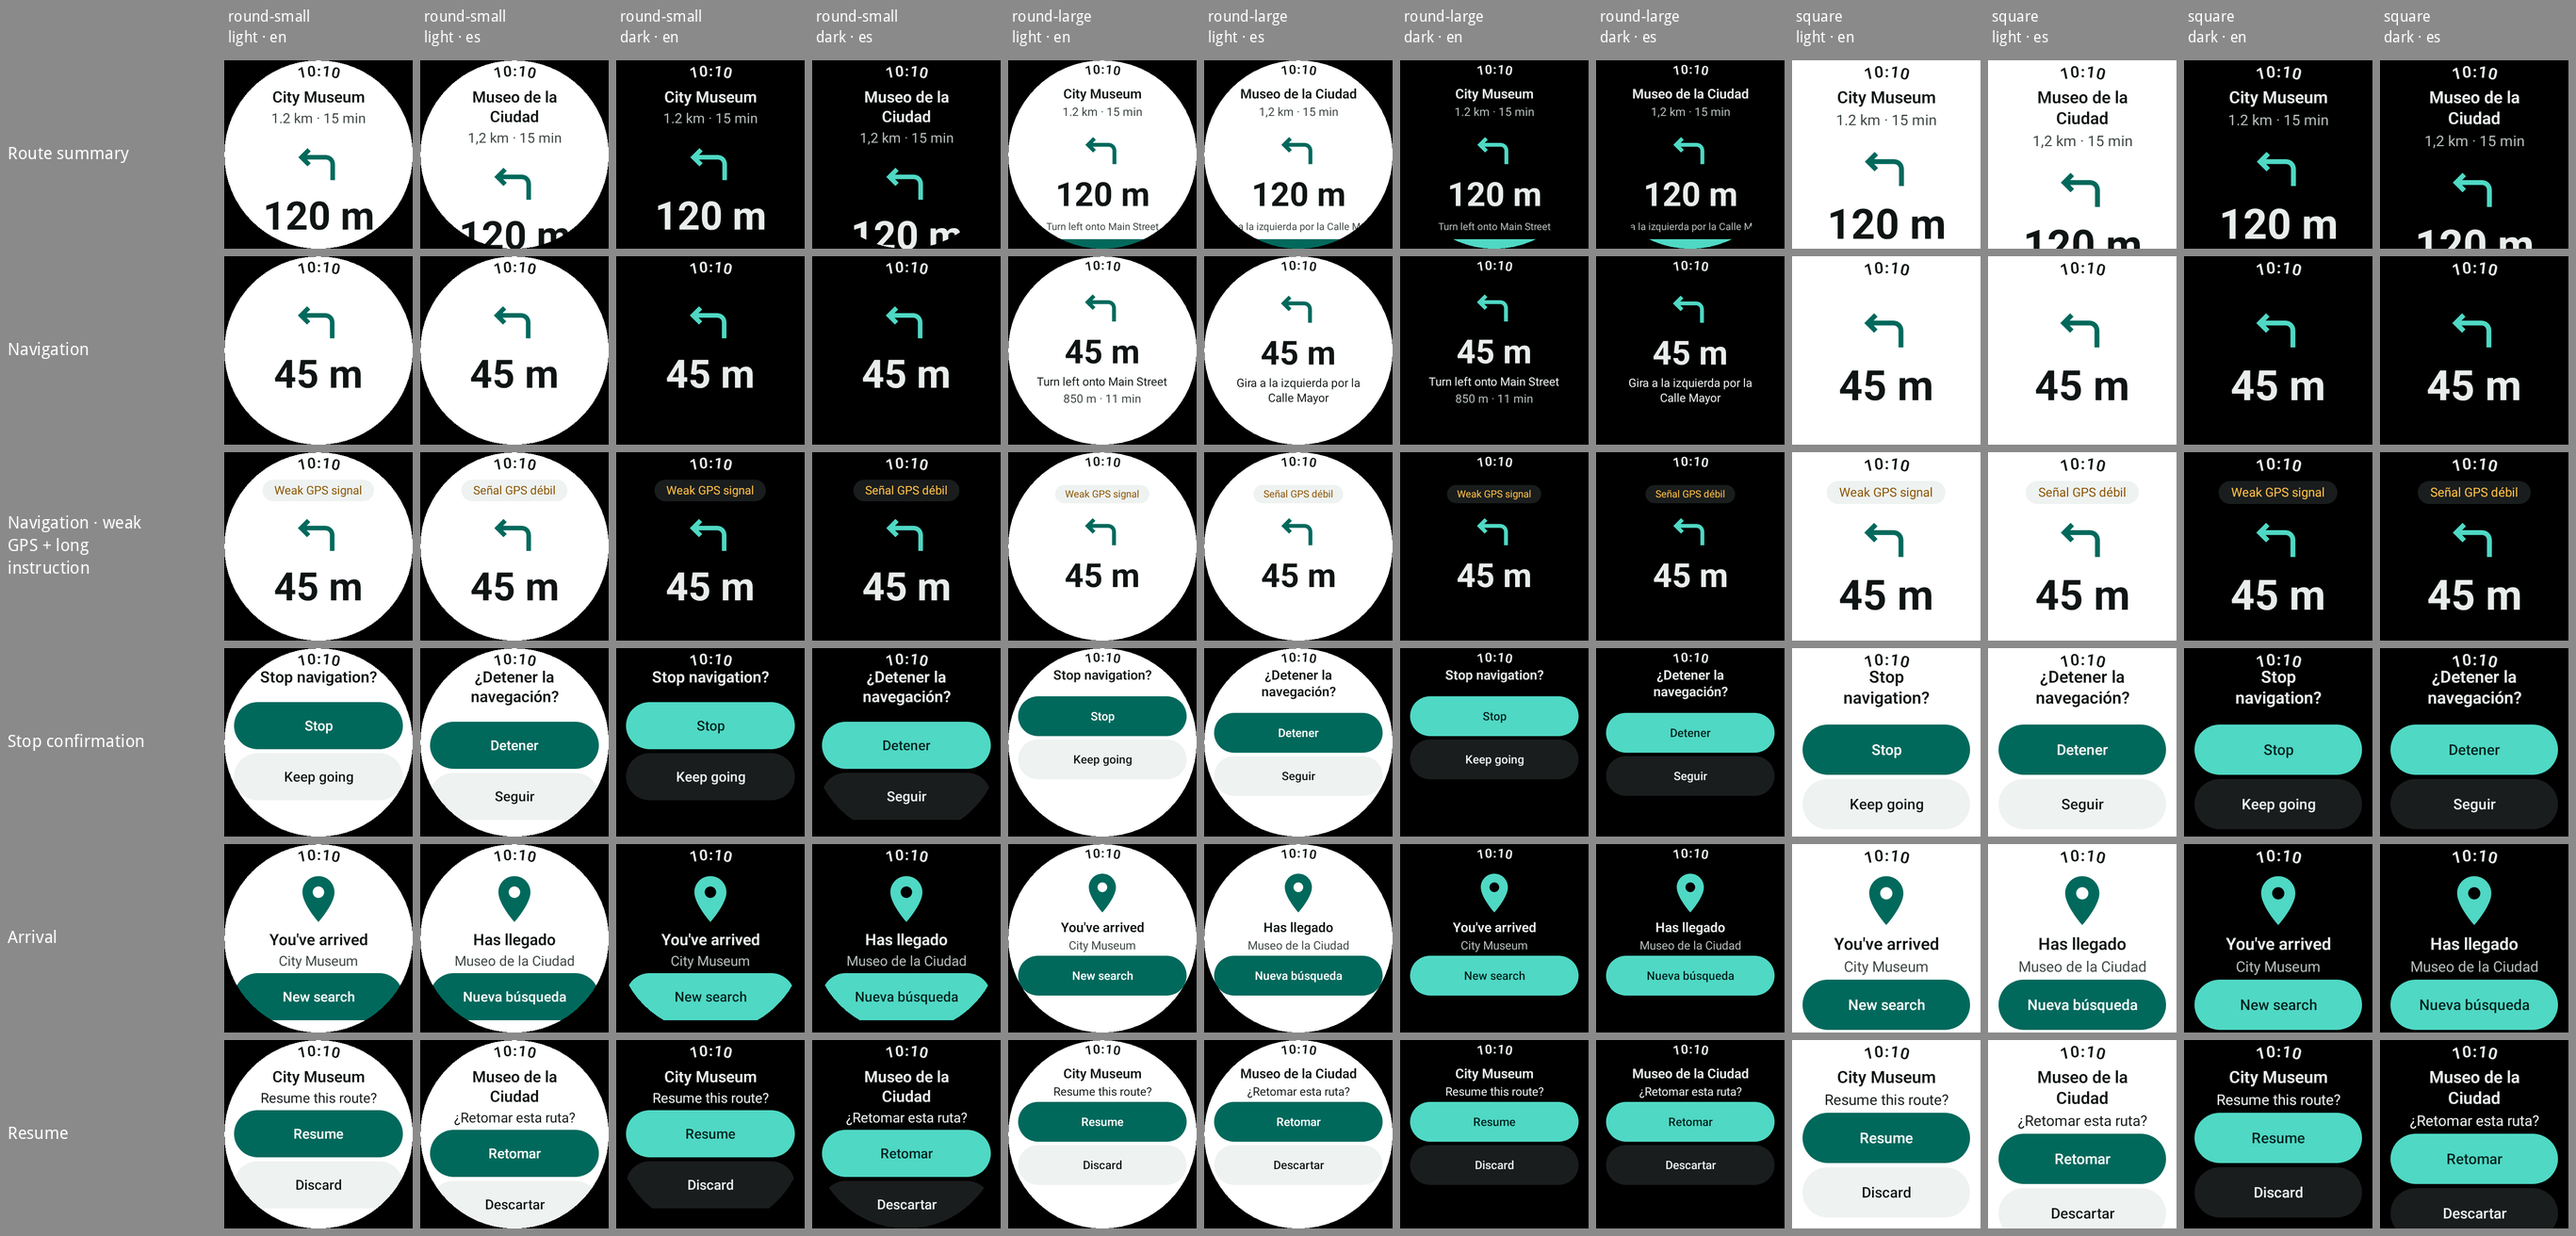
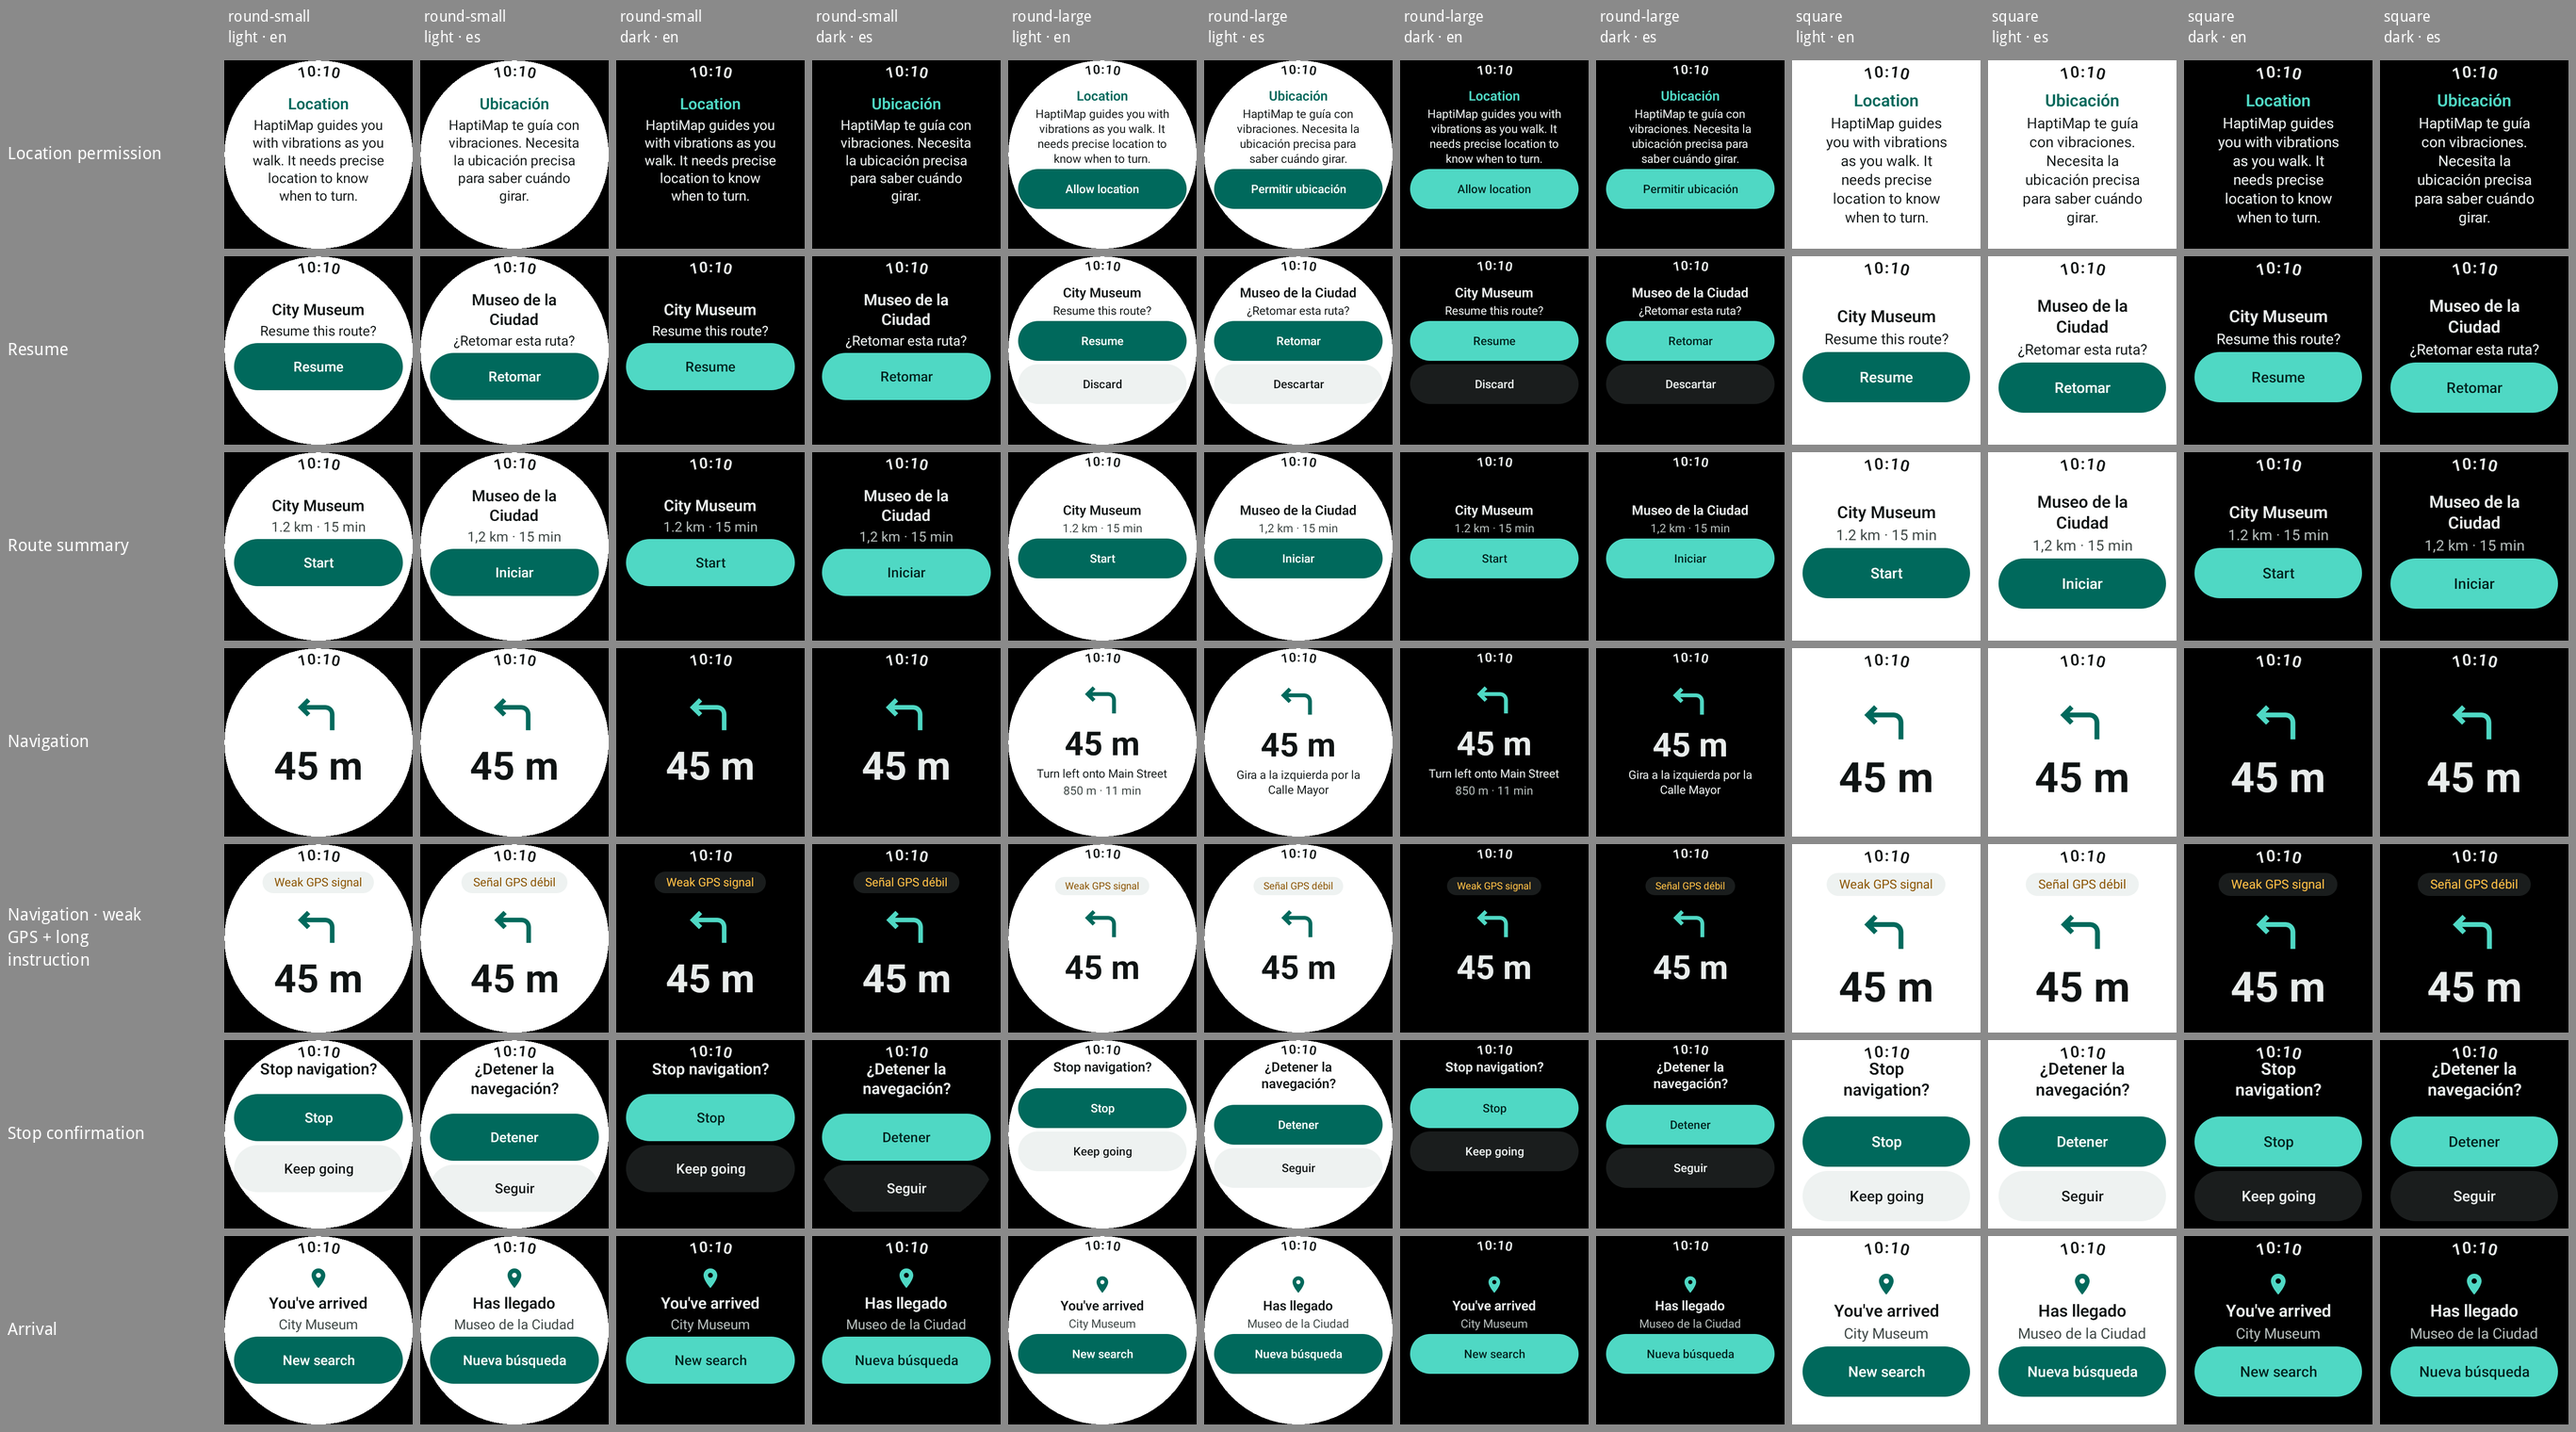
documentar la regla de la primera vista y regenerar la hoja de revisión
DESIGN_SYSTEM.md §7: la regla, qué plantilla usa cada tipo de pantalla
y la excepción de las listas; sin el organismo RouteSummary. La hoja
añade el permiso de ubicación.

diff --git a/docs/review/make_review_sheet.py b/docs/review/make_review_sheet.py
@@ -8,14 +8,16 @@ import os
 
 from PIL import Image, ImageDraw, ImageFont
 
-REF = "feature/navigation-ui/src/screenshotTestDebug/reference/com/xanderjs/haptimap/feature/navigationui"
+NAV = "feature/navigation-ui/src/screenshotTestDebug/reference/com/xanderjs/haptimap/feature/navigationui"
[1 lines of base64/hex data omitted]
 ROWS = [
-    ("Route summary", "RouteSummaryScreenshotsKt/RouteReady"),
-    ("Navigation", "NavigationScreenshotsKt/NavigationTurn"),
-    ("Navigation · weak GPS + long instruction", "NavigationScreenshotsKt/NavigationWeakGpsLongInstruction"),
-    ("Stop confirmation", "NavigationScreenshotsKt/NavigationStopConfirmation"),
-    ("Arrival", "NavigationScreenshotsKt/NavigationArrived"),
-    ("Resume", "RouteSummaryScreenshotsKt/ResumeRoute"),
+    ("Location permission", f"{ONBOARDING}/PermissionScreenshotsKt/PermissionRationale"),
+    ("Resume", f"{NAV}/RouteSummaryScreenshotsKt/ResumeRoute"),
+    ("Route summary", f"{NAV}/RouteSummaryScreenshotsKt/RouteReady"),
+    ("Navigation", f"{NAV}/NavigationScreenshotsKt/NavigationTurn"),
+    ("Navigation · weak GPS + long instruction", f"{NAV}/NavigationScreenshotsKt/NavigationWeakGpsLongInstruction"),
+    ("Stop confirmation", f"{NAV}/NavigationScreenshotsKt/NavigationStopConfirmation"),
+    ("Arrival", f"{NAV}/NavigationScreenshotsKt/NavigationArrived"),
 ]
 COLUMNS = [(shape, theme, lang) for shape in ("round-small", "round-large", "square") for theme in ("light", "dark") for lang in ("en", "es")]
 CELL, PAD, LABEL_W, HEAD_H = 200, 8, 230, 56
@@ -52,7 +54,7 @@ def main():
         for i, text in enumerate(lines):
             draw.text((PAD, y + CELL // 2 - 12 * len(lines) + i * 24), text, fill="white", font=label)
         for c, (shape, theme, lang) in enumerate(COLUMNS):
-            match = glob.glob(f"{REF}/{prefix}_{shape}-{theme}-{lang}_*.png")
+            match = glob.glob(f"{prefix}_{shape}-{theme}-{lang}_*.png")
             if len(match) != 1:
                 raise SystemExit(f"missing reference: {prefix} {shape}-{theme}-{lang}")
             tile = Image.open(match[0]).convert("RGB").resize((CELL, CELL), Image.LANCZOS)

diff --git a/DESIGN_SYSTEM.md b/DESIGN_SYSTEM.md
@@ -38,7 +38,6 @@ core/designsystem/src/main/
 │   ├── organisms/                  ← full sections of a screen
 │   │   ├── PlaceResultsList.kt     search results: a PlaceRow per place
 │   │   ├── StatusMessage.kt        text + StatusTone + optional spinner
-│   │   ├── RouteSummary.kt         RouteSummaryData: stats, next maneuver, instruction, Start
 │   │   └── ConfirmDialog.kt        full-screen question with two text buttons; ConfirmDialogContent for previews
 │   ├── templates/                  ← screen skeletons, no real data
 │   │   ├── RoundScreenTemplate.kt  ScreenScaffold + TimeText + safe round padding + scrolling list
@@ -61,7 +60,7 @@ Screens built from templates live in the feature modules (`:feature:search`,
 
 **Design-system components accept only UI values: strings already resolved, numbers, durations,
 design-system enums and data classes (`ArrowDirection`, `StatusTone`, `PlaceRowItem`,
-`RouteSummaryData`) and callbacks. Never domain types (`Place`, `Route`, `Maneuver`,
+`GuidanceUi` in `:feature:navigation-ui`) and callbacks. Never domain types (`Place`, `Route`, `Maneuver`,
 `PlaceSearchError`…).** The mapping from the domain to these values lives in the screen or feature
 layer that owns the domain, next to the screen that uses it:
 
@@ -86,8 +85,8 @@ for previews.
 | theme | Mapping tokens to light/dark and providing them | tokens | `HaptiMapTheme(ThemeMode.DARK)` |
 | atoms | One indivisible UI element | theme | `HaptiButton`, `DistanceText`, `NoticeLabel` |
 | molecules | A small group of atoms with one job | atoms, theme | `ManeuverIndicator` |
-| organisms | A self-contained section of a screen | molecules, atoms, theme | `PlaceResultsList`, `StatusMessage`, `RouteSummary` |
-| templates | Screen layout without real data | organisms ↓, theme | `RoundScreenTemplate`, `CenteredScreenTemplate` |
+| organisms | A self-contained section of a screen | molecules, atoms, theme | `PlaceResultsList`, `StatusMessage`, `ConfirmDialog` |
+| templates | Screen layout without real data | organisms ↓, theme | `GlanceScreenTemplate`, `CenteredScreenTemplate`, `RoundScreenTemplate` |
 | screens (features) | Templates filled with real state | everything above | `RouteSummaryScreen` |
 
 **Dependencies only flow downward.** An atom never imports a molecule, and a molecule never
@@ -287,7 +286,23 @@ offline" in English and Spanish: the label's lowest point now sits above the fir
 
 ## 7. Screens and the scaffold
 
-Each screen uses `RoundScreenTemplate { item { … } }`. The app root must be
+**First-view rule (step 07).** On no screen size may a line of text, or a button's label, be cut
+by the bottom edge in the first view, before any scroll. Whatever doesn't fit whole starts entirely
+below the edge, and the scroll indicator shows there is more. Checked in the screenshot tests,
+12 combinations per state.
+
+| Screen kind | Template | How the rule holds |
+|---|---|---|
+| A state with content and actions: navigation, route summary, resume, arrival, location permission | `GlanceScreenTemplate` (§12) | The only template for these. It measures: the glance always in the first view; each detail (text or button), in priority order, only if it fits whole |
+| A short message, maybe with one button: loading, route errors | `CenteredScreenTemplate` | No scroll; a message of up to 3 lines plus a button fits inside the circle (§9). Longer copy must be shortened, not scrolled |
+| A list of rows: search results, catalog, debug screens | `RoundScreenTemplate { item { … } }` | The exception: a row cut at the bottom is how a list shows it scrolls. Rows are touch targets, not reading text |
+
+Picking the order of `details` is the screen's design decision: the screen's main action goes
+before secondary information (route summary: Start before the first-maneuver preview). The glance
+must fit the smallest screen (small round, about 127 dp of safe height); when copy is too long to
+fit whole, shorten the copy (location rationale, step 07).
+
+The app root must be
 `AppScaffold(timeText = { HaptiTimeText() })`. After a recomposition (for example a theme
 switch), Wear's scaffold can fall back to the app-level time text. If that time text is not
 `HaptiTimeText`, the clock reverts to Wear's 80%-luminance gray, which is unreadable in light mode.
@@ -325,30 +340,30 @@ always agree with the rest of the UI.
 | `DirectionArrow` / `ArrowDirection.ARRIVE` | atom | A destination pin for the arrival maneuver ("Arrive at destination" / "Llegada al destino" for TalkBack). The `Maneuver` → `ArrowDirection` mapping is in `:feature:navigation-ui` (`RouteUi.kt`). |
 | `RouteStatsText(distanceMeters, duration)` | atom | "1.2 km · 15 min" in `body`, `onSurfaceVariant`. One `Text`, so an atom. `formatDuration()` lives here, next to how `formatDistance()` lives in `DistanceText`: "14 min", "1 h 5 min", rounded up, digits in the app language. |
 | `HeadingText(text)` | atom | A screen heading: `title`, `onBackground`, centered, up to 2 lines, announced as a heading by TalkBack. The route screen uses it for the destination name. Since step 06 it is `dimens.centeredContentWidthFraction` wide: it sits at the top, where the round screen is narrowest, and at full width a two-line name was cut at the sides. |
-| `RouteSummary(summary: RouteSummaryData, onStart)` | organism | `RouteStatsText`, `ManeuverIndicator` with the next maneuver and the distance to it, Google's instruction for it (`caption`) when there is one, and a primary `HaptiButton` "Start". |
 | `StatusMessage(text, tone, loading)` | organism | The same organism as search. `RouteStatusMessage` (`:feature:navigation-ui`) turns `RouteStatus` into it: "Finding route…" while loading; `RouteError.message` / `.tone` are the only route error → text/tone mapping. |
 
 **First maneuver.** `Route.firstManeuver()` (`:core:model`, unit-tested): the route's first step
 is the departure (Google's `DEPART`, a `CONTINUE`), so it is step 1's maneuver at step 0's distance:
 "in 120 m, turn left". A route with only the arrival step gives the arrival at the total distance.
-`Route.toSummary()` turns it into `RouteSummaryData`.
+`Route.toSummary()` turns it and the route totals into `GuidanceUi`, the same values the
+navigation screen shows.
 
 **Error tones** follow §8: no route is not a service failure (`Muted`); no connection
 and no location are `Warning`; missing key, invalid key, quota and other API failures are `Error`.
 The screen adds "Try again" (secondary) under every failure except `MISSING_KEY`, which a retry
 cannot fix.
 
-`RouteSummaryScreen` (`:feature:navigation-ui`): with a route, `RoundScreenTemplate` with a
-`HeadingText` item and a `RouteSummary` item; while loading or after an error,
-`CenteredScreenTemplate` with `RouteStatusMessage` (and "Try again"). The catalog shows `HeadingText` +
-`RouteSummary` with `sampleRouteSummary()` and three route states.
+`RouteSummaryScreen` (`:feature:navigation-ui`): with a route, `GlanceScreenTemplate` (since step
+07; the `RouteSummary` organism of step 05 was removed because one block can't be split between the
+first view and below it): glance = `HeadingText` (destination), the offline notice, `RouteStatsText`;
+details = primary "Start", `ManeuverIndicator`, `InstructionText`. While loading or after an error,
+`CenteredScreenTemplate` with `RouteStatusMessage` (and "Try again").
 
-**Two layout rules found with the screenshot tests:**
+**Layout rules found with the screenshot tests:**
 
 - **The first item of a `RoundScreenTemplate` must be short.** `TransformingLazyColumn` centers its
   first item; when that item is taller than the screen, its top ends up under the clock. A short
-  first item (a heading) is clamped to the top. This is why the destination name is not inside
-  `RouteSummary`.
+  first item (a heading) is clamped to the top. Only lists use it now (§7).
 - **A screen that is only a message uses `CenteredScreenTemplate`.** Text placed right under the
   clock is cut by the round edge (large round, long Spanish texts). Centered and at
   `dimens.centeredContentWidthFraction`, a 3-line message plus a button fits inside the circle.
@@ -369,6 +384,7 @@ Studio's previews) and compares them with the committed reference images. Functi
 | `:core:designsystem` | `NoticeLabelScreenshots.kt` | `NoticeLabel` in its four tones |
 | `:feature:navigation-ui` | `RouteSummaryScreenshots.kt` | The route screen in all 11 states (ready, ready with a long name, ready offline, loading, 7 errors) and the resume screen (pending, loading, short and long destination name) |
 | `:feature:navigation-ui` | `NavigationScreenshots.kt` | The navigation screen in 12 states (step 07, §12) |
+| `:feature:onboarding` | `PermissionScreenshots.kt` | The 5 location-permission steps (step 07, §7) |
 
 ```bash
 ./gradlew updateDebugScreenshotTest     # record or re-record the references after a deliberate UI change
@@ -405,10 +421,9 @@ says *what that means for this route*.
 - While the cache is read: an empty `CenteredScreenTemplate` (background and clock). Only if the read
   takes longer than 300 ms (`SLOW_LOAD_THRESHOLD`, `withSlowNotice()`) does `StatusMessage("Loading…", loading = true)`
   appear; otherwise it flashed on every launch.
-- With a route: `RoundScreenTemplate` with the destination in `HeadingText`, "Resume this route?" in
-  `StatusMessage`, and `HaptiButton` primary "Resume" / secondary "Discard". It was planned in
-  `CenteredScreenTemplate`, but the screenshots showed "Discard" cut off on small round and square
-  with a long name; the list scrolls.
+- With a route: `GlanceScreenTemplate` (since step 07): glance = the destination in `HeadingText` and
+  "Resume this route?" in `StatusMessage`; details = `HaptiButton` primary "Resume", secondary
+  "Discard". On small round and square "Discard" starts below the edge, never cut.
 
 ## 12. Navigation screen (step 07)
 
@@ -434,7 +449,8 @@ says *what that means for this route*.
 doesn't (the route is cached), and the clock band already says "Offline" (§6), so nothing is lost.
 `navigationNotice(weakSignal, offline)` in `RouteUi.kt` is the only place that decides.
 
-**Arrival** (same screen, `Arrived` / `Completed`): `RoundScreenTemplate` with the `ARRIVE` pin,
-`HeadingText` "You've arrived" / "Has llegado", the destination in `StatusMessage` (`Muted`, a live
-region so TalkBack announces it) and a primary "New search" / "Nueva búsqueda". Scrolls when a
-long name pushes the button down.
+**Arrival** (same screen, `Arrived` / `Completed`): `GlanceScreenTemplate`. Glance = the `ARRIVE`
+pin at `HaptiIconSize.Medium` and `HeadingText` "You've arrived" / "Has llegado"; details = the
+destination in `StatusMessage` (`Muted`, a live region so TalkBack announces it) and a primary
+"New search" / "Nueva búsqueda". With the large pin, "New search" fit the first view on no screen;
+with the medium one it does except with a two-line name on small round and square.
